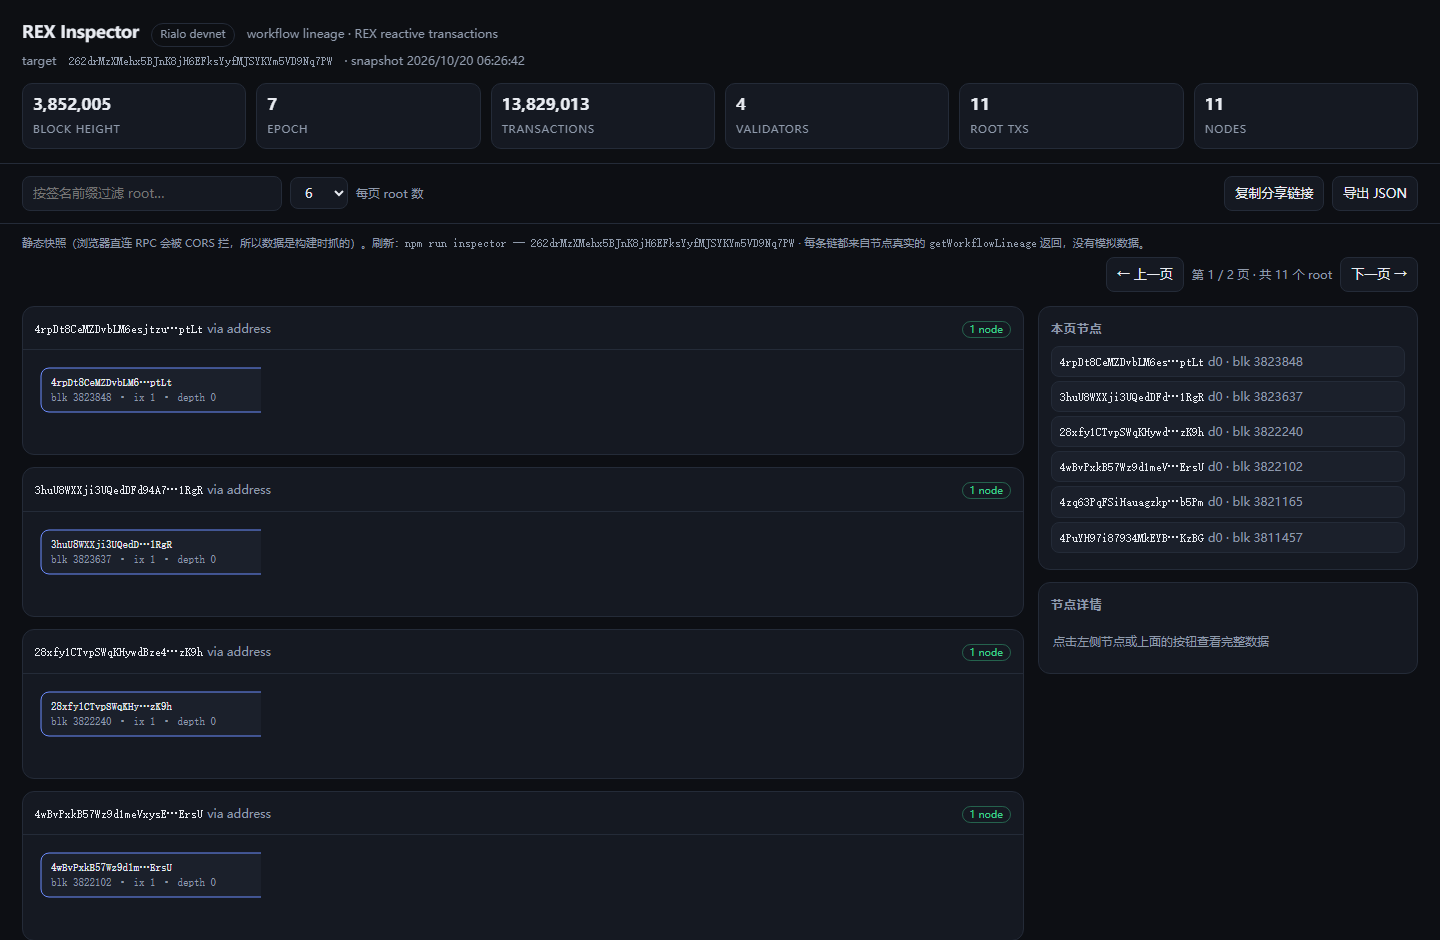
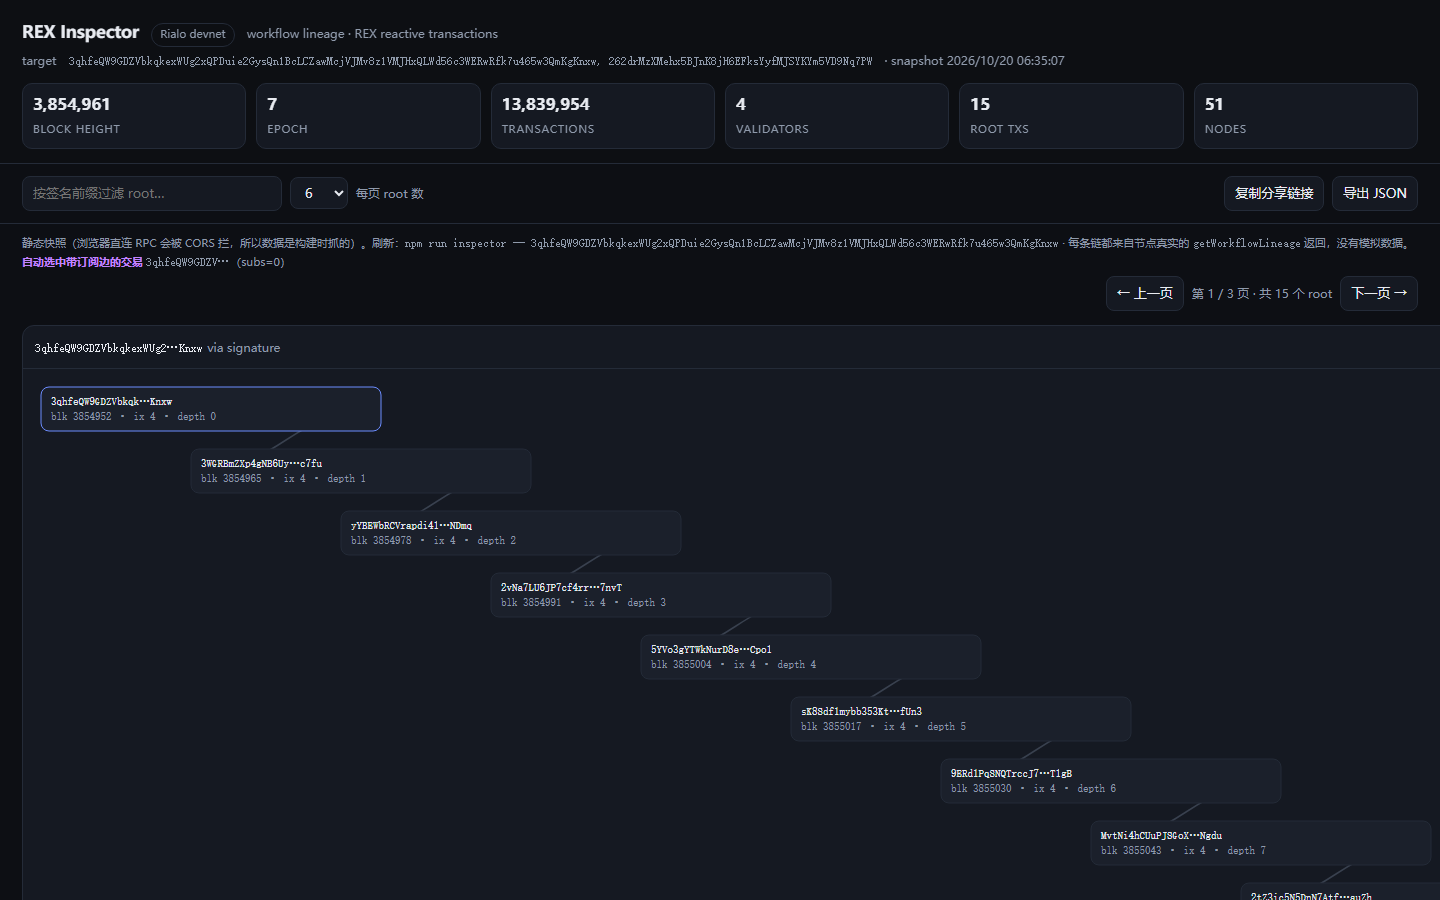
Feature real REX chains + hourly snapshot workflow
- --auto now remembers the last tx with subscription edges in rex-seed.json and
  re-validates it, so the site keeps showing a live chain after it leaves the scan window
- scan window widened to 20 blocks; found real chains (10-11 nodes, children up to 36)
- narrower nodes so a depth-6 chain fits one screen
- .github/workflows/snapshot.yml refreshes index.html hourly and commits it
- test:ui is data-driven now (pages/nodes derived from the payload)

diff --git a/index.html b/index.html
@@ -94,7 +94,7 @@
     </div>
   </aside>
 </main>
[2 lines of base64/hex data omitted]
 <script>
 (function () {
   var data = JSON.parse(document.getElementById('data').textContent);
@@ -111,7 +111,9 @@
   document.getElementById('note').innerHTML =
     '静态快照（浏览器直连 RPC 会被 CORS 拦，所以数据是构建时抓的）。刷新：' +
     '<code>npm run inspector -- ' + esc(data.targets[0]) + '</code>' +
-    ' · 每条链都来自节点真实的 <code>getWorkflowLineage</code> 返回，没有模拟数据。';
+    ' · 每条链都来自节点真实的 <code>getWorkflowLineage</code> 返回，没有模拟数据。' +
+    (data.auto ? ' <b style="color:var(--sub)">自动选中带订阅边的交易</b> <code>' +
+      esc(data.auto.sig.slice(0, 12)) + '…</code>（subs=' + esc(data.auto.subs) + '）' : '');
 
   var stats = [
     ['block height', fmt(data.status.blockHeight)],
@@ -130,7 +132,7 @@
   }
 
   function drawGraph(root) {
-    var W = 430, H = 44, COL = 210, ROW = 62, PAD = 10;
+    var W = 340, H = 44, COL = 150, ROW = 62, PAD = 10;
     var nodes = root.nodes.slice();
     if (!nodes.length) return '<div class="empty">该交易没有 lineage 节点</div>';
     var pos = {};
